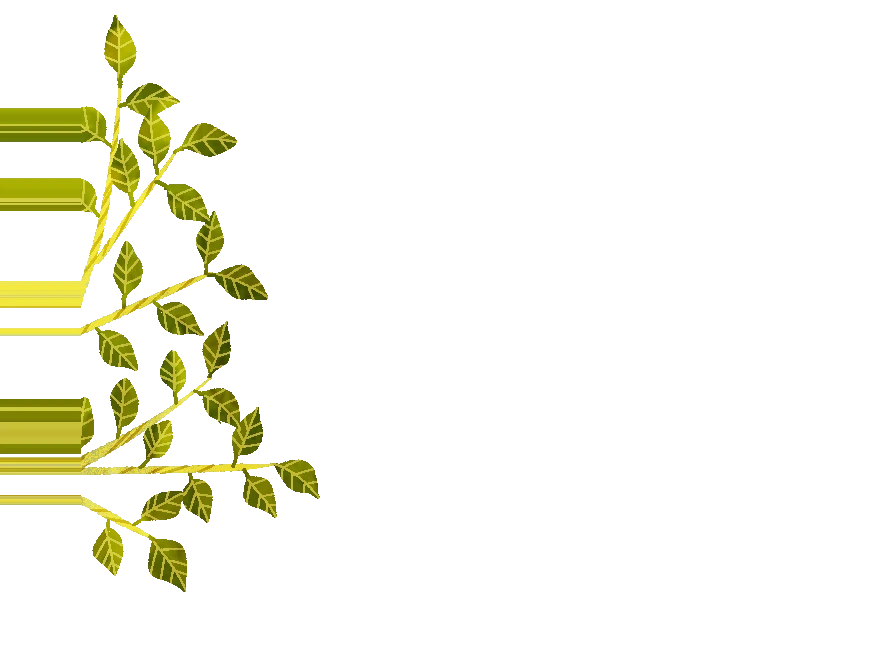
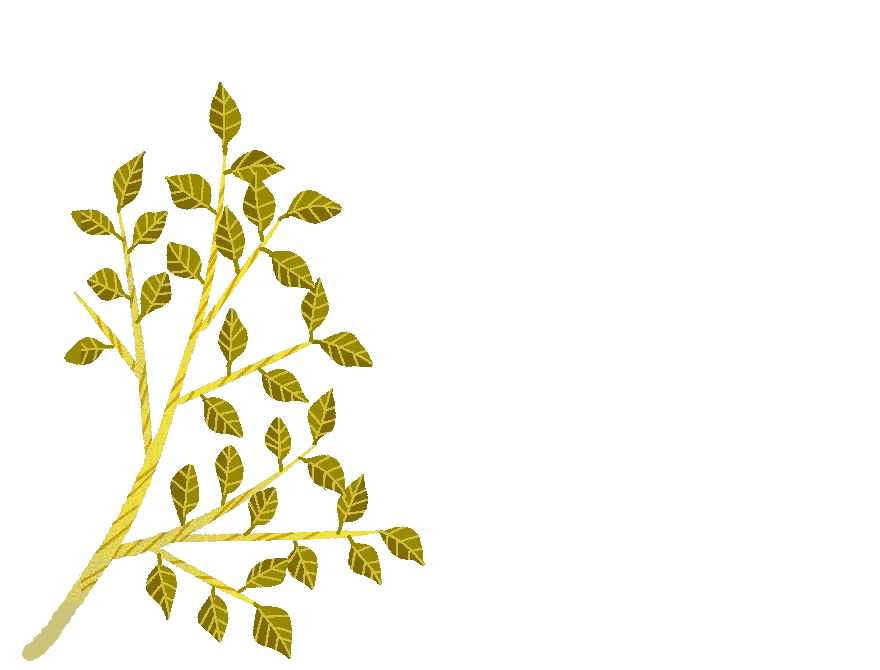
下の金色の枝(ki1)を、上の枝 ki.png を左右反転した絵に差し替え
縦位置は前の ki1 と重なりが最大になる高さ。枠(880×670)と --x/--y は従来どおり。
支点の高さは上の枝の左右を入れ替えた値(左 59.9%、右 41.7%)。

Changed region(s): [[0.0, 0.0299, 0.4909, 0.9851]]

diff --git a/index.html b/index.html
@@ -148,8 +148,8 @@
   <img class="layer foam2" src="layers/taki2.webp" style="--x:0; --y:4912.3; --w:1088" alt="">
   <img class="layer branch" src="layers/ki2-left.webp" style="--x:-54.4; --y:4245.9; --w:598.4; transform-origin:9.09% 39.0%" alt=""> <!-- 金色の枝(ki2=上の枝、ki1=下の枝。左右に分けて、枝ごとにゆっくり揺れる。画像はページの端の外へ 80px 延長してある) -->
   <img class="layer branch" src="layers/ki2-right.webp" style="--x:544; --y:4245.9; --w:598.4; transform-origin:90.91% 57.5%" alt="">
-  <img class="layer branch" src="layers/ki1-left.webp" style="--x:-54.4; --y:4517.9; --w:598.4; transform-origin:9.09% 46.9%" alt="">
-  <img class="layer branch" src="layers/ki1-right.webp" style="--x:544; --y:4517.9; --w:598.4; transform-origin:90.91% 69.9%" alt="">
+  <img class="layer branch" src="layers/ki1-left.webp" style="--x:-54.4; --y:4517.9; --w:598.4; transform-origin:9.09% 59.9%" alt="">
+  <img class="layer branch" src="layers/ki1-right.webp" style="--x:544; --y:4517.9; --w:598.4; transform-origin:90.91% 41.7%" alt=""> <!-- 下の枝は、上の枝 ki.png を左右反転したもの(支点も上の枝の左右を入れ替えた高さ) -->
   <p class="ending" style="--y:8100; --fs:30">To be continued</p> <!-- 最下部の水の中央の文字 -->
 </div>
 
